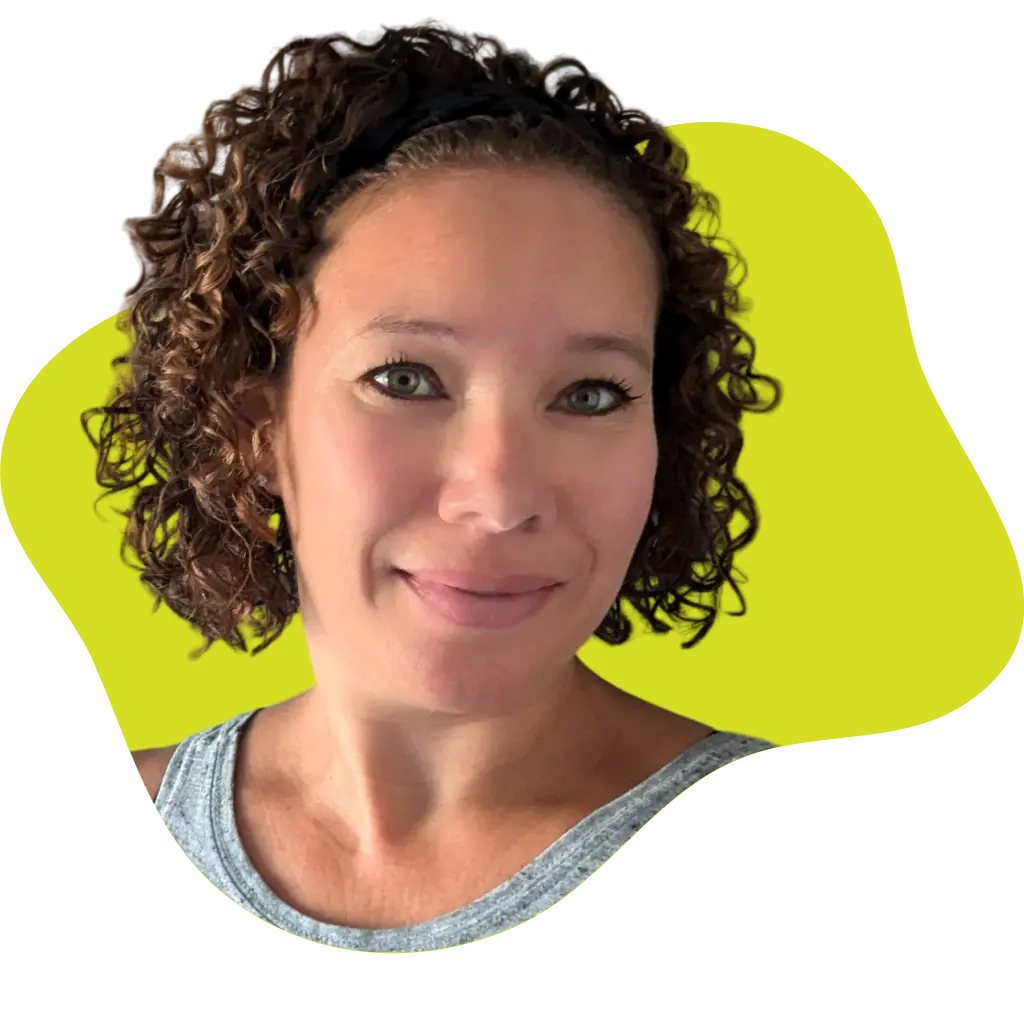
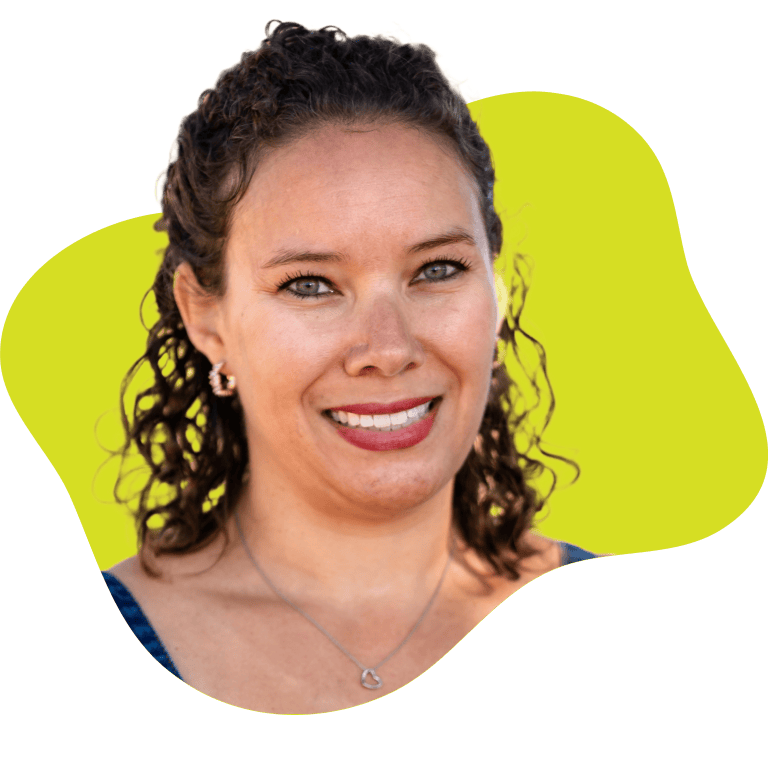
Updates
Added Netlify-provided reCAPTCHA 2 to contact forms
Updated about page image

diff --git a/index.html b/index.html
@@ -336,9 +336,9 @@
 
             <img
               class="cs-logo"
-              src="/assets/img/webp/ggm-hangar12-logo.webp"
-              alt="Hangar 12 logo"
-              width="107"
+              src="/assets/img/webp/ggm-lpea-black.webp"
+              alt="LPEA logo"
+              width="124"
               height="64"
               loading="lazy"
               decoding="async" />
@@ -532,6 +532,7 @@
               id="cs-form-1271"
               name="Contact Form"
               method="post"
+              data-netlify-recaptcha="true"
               netlify>
               <label class="cs-label">
                 Name
@@ -571,6 +572,7 @@
                   id="message-1271"
                   placeholder="Your Message"></textarea>
               </label>
+              <div data-netlify-recaptcha="true"></div>
               <button class="cs-button-solid cs-submit" type="submit">
                 Submit your message
               </button>

diff --git a/about.html b/about.html
@@ -278,6 +278,7 @@
               id="cs-form-1271"
               name="Contact Form"
               method="post"
+              data-netlify-recaptcha="true"
               netlify>
               <label class="cs-label">
                 Name
@@ -317,6 +318,7 @@
                   id="message-1271"
                   placeholder="Your Message"></textarea>
               </label>
+              <div data-netlify-recaptcha="true"></div>
               <button class="cs-button-solid cs-submit" type="submit">
                 Submit your message
               </button>

diff --git a/contact.html b/contact.html
@@ -198,6 +198,7 @@
               id="cs-form-1271"
               name="Contact Form"
               method="post"
+              data-netlify-recaptcha="true"
               netlify>
               <label class="cs-label">
                 Name
@@ -237,6 +238,7 @@
                   id="message-1271"
                   placeholder="Your Message"></textarea>
               </label>
+              <div data-netlify-recaptcha="true"></div>
               <button class="cs-button-solid cs-submit" type="submit">
                 Submit your message
               </button>
